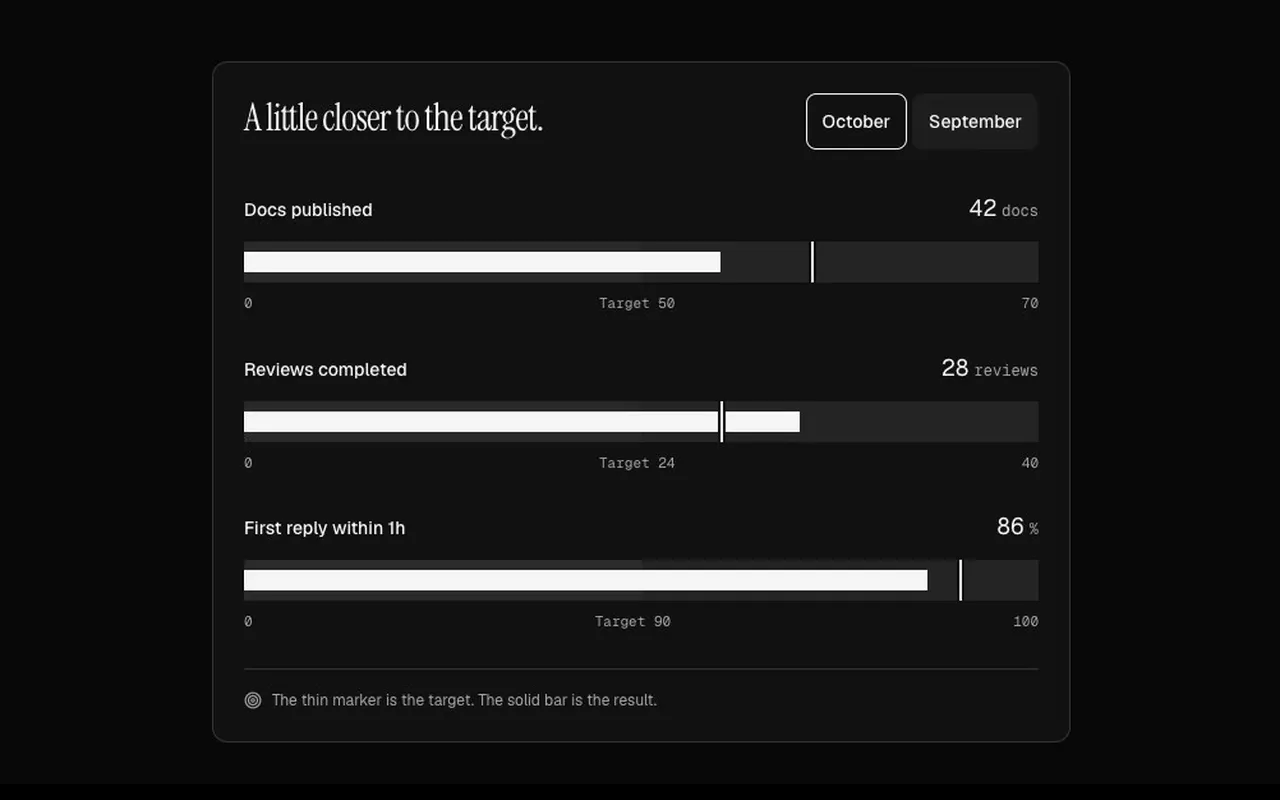
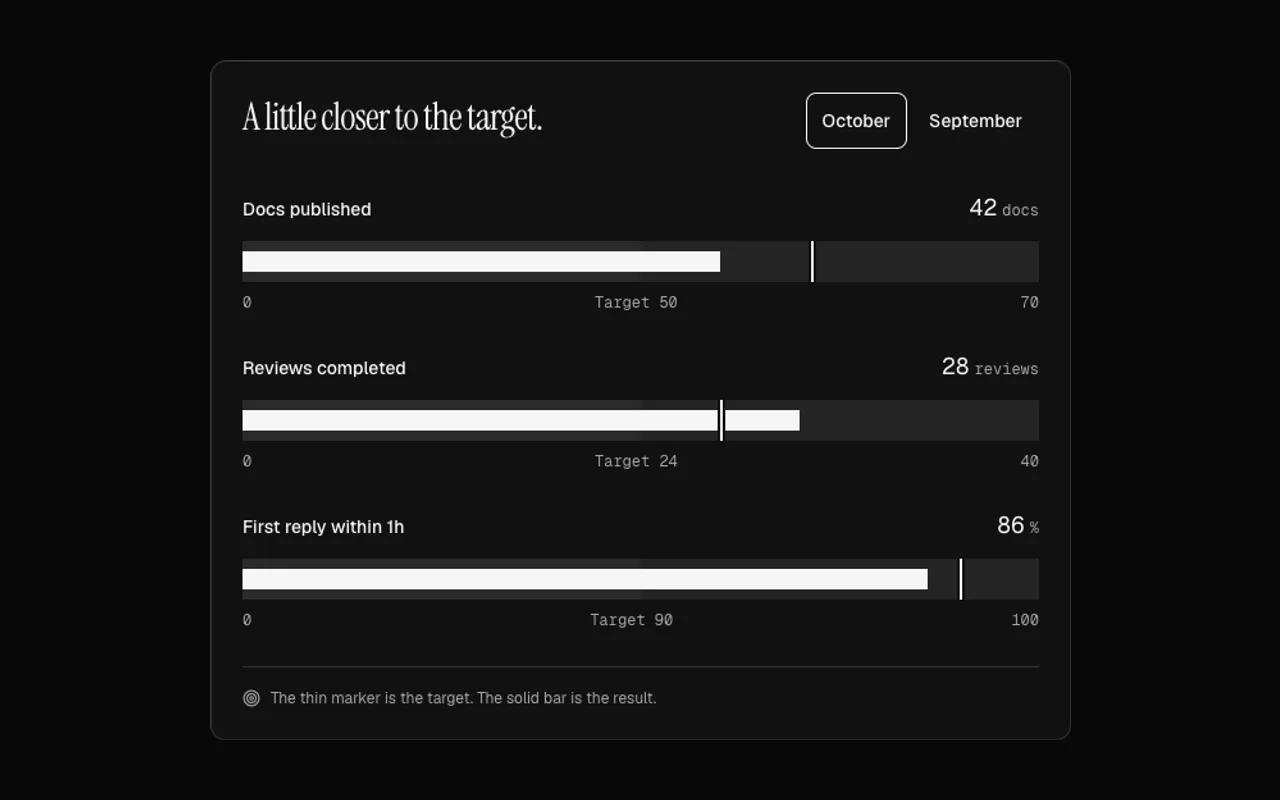
Polish Bullet Targets, preserve initial values and verify period changes

diff --git a/registry/free/chart-bullet-targets/chart-bullet-targets.tsx b/registry/free/chart-bullet-targets/chart-bullet-targets.tsx
@@ -1,10 +1,15 @@
 "use client";
-import { type CSSProperties, useId, useState } from "react";
+import { type CSSProperties, useLayoutEffect, useSyncExternalStore, useId, useState } from "react";
 import { Target } from "lucide-react";
-import { motion, useReducedMotion } from "motion/react";
+import { animate, motion, useAnimationControls, useMotionValue, useTransform } from "motion/react";
 
-const control =
-  "inline-flex min-h-11 min-w-11 items-center justify-center gap-2 rounded-lg px-3 text-sm font-medium transition-[background,transform] duration-150 hover:bg-[var(--wash)] disabled:hover:bg-transparent active:scale-[.97] focus-visible:outline-2 focus-visible:outline-offset-2 focus-visible:outline-[var(--ink)] disabled:cursor-not-allowed disabled:opacity-40 disabled:active:scale-100 motion-reduce:transform-none";
+const control = [
+  "inline-flex min-h-11 min-w-11 items-center justify-center gap-2 rounded-lg px-3 text-sm",
+  "font-medium transition-[background,transform] duration-150 hover:bg-[var(--wash)]",
+  "disabled:hover:bg-transparent active:scale-[.97] focus-visible:outline-2",
+  "focus-visible:outline-offset-2 focus-visible:outline-[var(--ink)] disabled:cursor-not-allowed",
+  "disabled:opacity-40 disabled:active:scale-100 motion-reduce:transform-none",
+].join(" ");
 const muted = "text-[var(--muted)]";
 function colors(theme: "dark" | "light"): CSSProperties {
   return {
@@ -104,6 +109,22 @@ const number = (n: number) =>
   n >= 1e6
     ? n.toExponential(1)
     : new Intl.NumberFormat("en", { maximumFractionDigits: 1 }).format(n);
+function AnimatedFigure({ value, reduced, demo }: { value: number; reduced: boolean; demo: string }) {
+  const current = useMotionValue(value);
+  const display = useTransform(current, number);
+  useLayoutEffect(() => {
+    current.stop();
+    // Very large observations stay exact and never overflow interpolation.
+    if (reduced || Math.abs(value - current.get()) > 1e12) {
+      current.set(value);
+      return;
+    }
+    const playback = animate(current, value, { duration: 0.28, ease: [0.22, 1, 0.36, 1] });
+    return () => playback.stop();
+  }, [current, value, reduced]);
+  return <motion.span data-demo={demo}>{display}</motion.span>;
+}
+
 export function BulletTargets({
   title = "A little closer to the target.",
   periods = defaults,
@@ -112,11 +133,13 @@ export function BulletTargets({
   theme = "dark",
 }: BulletTargetsProps) {
   const id = useId();
-  const reduced = useReducedMotion();
+  const { reduced, entrance } = useLiveEntrance();
   const [selected, setSelected] = useState(defaultPeriod);
   const period = periods.find((p) => p.id === selected) ?? periods[0];
   return (
-    <section
+    <motion.section
+      initial={{ opacity: 0, y: reduced ? 0 : 8 }}
+      animate={entrance}
       style={colors(theme)}
       aria-labelledby={id}
       className="@container w-full max-w-2xl rounded-xl border border-[var(--line)] bg-[var(--panel)] p-6 text-[var(--ink)]"
@@ -157,11 +180,11 @@ export function BulletTargets({
             max = Math.max(1, safe(metric.ceiling), actual, target);
           return (
             <div key={`${metric.id}-${i}`}>
-              <div className="mb-3 flex items-baseline justify-between gap-4">
+              <div className="mb-3 flex flex-wrap items-baseline justify-between gap-x-4 gap-y-1">
                 <h3 className="text-sm font-medium">{metric.label}</h3>
-                <span className="whitespace-nowrap font-mono text-lg tabular-nums">
-                  {number(actual)}
-                  <span className={`ml-1 text-xs ${muted}`}>{metric.unit}</span>
+                <span className="ml-auto min-w-0 text-right font-mono text-lg tabular-nums">
+                  <AnimatedFigure value={actual} reduced={reduced} demo={`bullet-value-${i}`} />
+                  <span className={`ml-1 inline-block max-w-full text-xs leading-relaxed ${muted}`}>{metric.unit}</span>
                 </span>
               </div>
               <div
@@ -174,6 +197,7 @@ export function BulletTargets({
                   className="absolute inset-y-0 left-0 w-1/2 border-r border-[var(--line)] bg-[var(--line)] opacity-40"
                 />
                 <motion.div
+                  key={String(reduced)}
                   aria-hidden="true"
                   initial={{ width: reduced ? `${(actual / max) * 100}%` : 0 }}
                   animate={{ width: `${(actual / max) * 100}%` }}
@@ -189,7 +213,7 @@ export function BulletTargets({
                 />
               </div>
               <div
-                className={`mt-2 flex justify-between gap-3 font-mono text-[11px] ${muted}`}
+                className={`mt-2 flex justify-between gap-3 font-mono text-xs ${muted}`}
               >
                 <span>0</span>
                 <span>Target {number(target)}</span>
@@ -205,11 +229,33 @@ export function BulletTargets({
       <p
         className={`mt-7 flex items-center gap-2 border-t border-[var(--line)] pt-4 text-xs ${muted}`}
       >
-        <Target size={14} aria-hidden="true" />
+        <Target size={14} className="shrink-0" aria-hidden="true" />
         The thin marker is the target. The solid bar is the result.
       </p>
-    </section>
+    </motion.section>
   );
+}
+
+const motionQuery = "(prefers-reduced-motion: reduce)";
+function subscribeToMotion(change: () => void) {
+  const query = window.matchMedia(motionQuery);
+  query.addEventListener("change", change);
+  return () => query.removeEventListener("change", change);
+}
+function useLiveEntrance() {
+  const reduced = useSyncExternalStore(
+    subscribeToMotion,
+    () => window.matchMedia(motionQuery).matches,
+    () => false,
+  );
+  const entrance = useAnimationControls();
+  useLayoutEffect(() => {
+    entrance.stop();
+    if (reduced) entrance.set({ opacity: 1, y: 0 });
+    else void entrance.start({ opacity: 1, y: 0, transition: { duration: 0.32 } });
+    return () => entrance.stop();
+  }, [entrance, reduced]);
+  return { reduced, entrance };
 }
 
 export default function BulletTargetsDemo(

diff --git a/tests/chart-initial-figures.test.ts b/tests/chart-initial-figures.test.ts
@@ -1,6 +1,7 @@
 import { describe, expect, it } from "vitest";
 import { renderToStaticMarkup } from "react-dom/server";
 import { createElement } from "react";
+import { BulletTargets } from "@/registry/free/chart-bullet-targets/chart-bullet-targets";
 import { SlopeComparison } from "@/registry/free/chart-slope-comparison/chart-slope-comparison";
 
 function figureValues(markup: string) {
@@ -9,6 +10,10 @@ function figureValues(markup: string) {
 }
 
 describe("first chart observations", () => {
+  it("renders actual bullet results before client effects run", () => {
+    expect(figureValues(renderToStaticMarkup(createElement(BulletTargets)))).toEqual(["42", "28", "86"]);
+  });
+
   it("renders actual slope observations before client effects run", () => {
     expect(figureValues(renderToStaticMarkup(createElement(SlopeComparison)))).toEqual(["46", "64"]);
   });

diff --git a/docs/review/HANDOFF_TASKS.md b/docs/review/HANDOFF_TASKS.md
@@ -348,7 +348,9 @@ and how to know it's done. Pick any of them up independently. Background, briefs
 
 - Task 4 tooling follow-up (19 October): replay failures retain their primary exception when navigation also destroys diagnostic context. A closed-page negative preserves the original goto error and reports unavailable state/screenshot evidence. The source-leak guard scans each file once for the same exported Pro names: all 306 tracked source files and 1,395 seeded cases match the former results. The measured scan improves from 3.97s to 33ms without raising its 5s deadline. Strict registry, TypeScript and all 1,064 unit tests pass at four workers. Both fixes are committed separately (`870ebd5`, `1d7aa75`); the original timeouts and masked failures remain archived.
 
-## 1. Re-record demo videos (113 components)
+- Task 7 (19 October): Bullet Targets retains its focused chart composition. Long units and large figures stay within 320px, correcting the preserved painted-text overflow. Initial result figures render correctly before client effects; later changes interpolate for 280ms; fills and numbers stop immediately when reduced motion changes, retaining period-button focus. Keyboard periods, exact callbacks/bar fractions, empty periods/metrics, normalized values and host replacement pass. The 29-mount source review, 14 state/default accessibility audits, six widths, reviewed entrance/state captures, Next regression, three controls, official audit and exact metadata replay pass. Strict registry, TypeScript and all 1,066 unit tests pass. Its current Next poster is refreshed and reviewed. The film refresh remains in task 1: recording under the current shared machine load was rejected without replacing the published movie. No capture guard is relaxed. The next full checkpoint has 61 suites and 74 metadata replays and remains pending. 20 components and 12 blocks remain in task 7; 114 films remain in task 1.
+
+## 1. Re-record demo videos (114 components)
 
 Every rebuilt component's poster is current but its catalogue film (`public/previews/<slug>.mp4`) still shows the old
 version. Record them one at a time on an otherwise idle machine; the recorder rejects frame stalls under load.
@@ -367,6 +369,7 @@ slug or per small group). Notes:
 
 Slugs:
 
+`chart-bullet-targets`
 `chart-slope-comparison`
 `agents-budget-guard`, `agents-dependency-board`
 `agents-run-replay`, `ai-answer-compare`, `ai-context-budget`, `ai-structured-output`, `auth-recovery-codes`
@@ -495,16 +498,16 @@ All nine parked rebuilds are shipped in both repos. Their original `_wip/<slug>`
 | finance-budget-variance | Completed 17 October: Next probe, dark/light accessibility, responsive and entrance/state captures, live demo and refreshed poster pass. |
 | finance-cashflow-dashboard | Completed 17 October: weekly balance and in/out bars, movable payments, independent pending saves, invalid-data guards, selected-week list geometry, Next probe/demo, both-theme accessibility, responsive/state/entrance captures and refreshed poster pass. |
 
-## 7. Continue the review (21 components, then 12 blocks)
+## 7. Continue the review (20 components, then 12 blocks)
 
-Same process as the 177 already done: hold each to the first ~100 components' standard. Briefs:
+Same process as the 178 already done: hold each to the first ~100 components' standard. Briefs:
 `docs/review/REVIEW_BRIEF.md`, `docs/review/SUITE_BRIEF.md` for industry components, suite languages in
 `docs/review/suites/`. Work newest first, about four components per batch, and verify each (build, tsc, tests,
 check-component, your own captures of states and mid-entrance frames, a refreshed poster, a rewritten pro-50 probe for
 industry components).
 
 - **Commerce** is reviewed. Keep `block-commerce-workspace` compatible with its rebuilt parts.
-- **Smaller components** (#151–179): chart-bullet-targets, media-story-deck, devtools-request-waterfall, devtools-json-inspector,
+- **Smaller components** (#151–179): media-story-deck, devtools-request-waterfall, devtools-json-inspector,
   media-before-after, data-kanban-compact, data-file-explorer, forms-preference-center, date-week-agenda,
   onboarding-setup-checklist, date-booking-slots, input-file-dropzone, input-shortcut-recorder,
   feedback-empty-search, navigation-pagination-window, primitives-shortcut-reference, selects-radio-cards,

diff --git a/docs/review/STATUS.md b/docs/review/STATUS.md
@@ -1,6 +1,6 @@
 # Review status
 
-177 components are rebuilt (or, for a few, polished), verified and committed. For each: whether its demo video
+178 components are rebuilt (or, for a few, polished), verified and committed. For each: whether its demo video
 needs re-recording, whether its poster is current, and the state of its browser regression probe.
 
 - **Video**: `new` means `public/previews/<slug>.mp4` still shows the old version. Re-record serially on a quiet machine:
@@ -9,7 +9,7 @@ needs re-recording, whether its poster is current, and the state of its browser 
 - **Probe**: the `tests/browser/pro-50/<slug>.mjs` state, or another probe that covers it. Blank means no browser test
   was written in this review; those are the ones for a separate pass.
 
-Release Notes also passes its focused review, three controls, official audit and exact Features replay, with a reviewed current film/poster. The editorial/chart reviews bring the next full checkpoint to 61 suites and 73 metadata replays. That next batch checkpoint is pending.
+Release Notes also passes its focused review, three controls, official audit and exact Features replay, with a reviewed current film/poster. The editorial/chart reviews bring the next full checkpoint to 61 suites and 74 metadata replays. That next batch checkpoint is pending.
 
 ## Batch verification (19 October 2026)
 
@@ -302,3 +302,4 @@ See [the handoff checkpoint](HANDOFF_TASKS.md#8-final-release-checks) for revisi
 | `content-release-notes` | current | current | Keyboard filters/disclosure, exact filtered lists, empty/arriving data, invalid limits, live reduced motion and selected-text contrast pass. The 29-mount source review, fourteen state/default accessibility audits, current fourteen-mount selection follow-up with twelve state audits, six widths, entrance/state captures, Next regression, three controls, official audit and exact Features replay pass. Strict registry, TypeScript and all 1,064 unit tests pass. Reviewed 3.5s film and paired poster are current, with all recording guards retained. |
 | `cards-event-ticket` | current | current | Native keyboard disclosure, empty/updated programmes, long guest/reference text, independent ticket IDs and live reduced motion pass. The 27-mount source review, fourteen state/default accessibility audits, six widths, entrance/state captures, Next regression, three controls, official audit and exact closed/open/closed replay pass. Strict registry, root/isolated Pro types and all 1,064 unit tests pass. Reviewed 3.32s film and paired poster are current, with every recording guard retained. |
 | `chart-slope-comparison` | new | current | Selection callbacks receive independent row copies. Contextual slope strokes improve from the preserved 2.13:1 failure to 4.98:1 dark and 3.41:1 light. Endpoint figures interpolate for 280ms; long units wrap as complete blocks. Keyboard selection, copied payloads, host replacement, negative/non-finite observations, unplottable ranges, empty collections and live reduced motion pass. The 31-mount source review, 16 state/default accessibility audits, six widths, entrance/state captures, Next regression, three controls, official audit and exact replay pass. Strict registry, TypeScript and all 1,064 unit tests pass. The refreshed Next poster is reviewed. Film refresh remains in task 1; rejected captures preserve the published movie and every timing guard. |
+| `chart-bullet-targets` | new | current | Long units and large figures stay within 320px, correcting the preserved painted-text overflow. Initial result figures render correctly before client effects; later changes interpolate for 280ms; fills and numbers stop immediately when reduced motion changes, retaining period-button focus. Keyboard periods, exact callbacks/bar fractions, empty periods/metrics, normalized values and host replacement pass. The 29-mount source review, 14 state/default accessibility audits, six widths, entrance/state captures, Next regression, three controls, official audit and exact replay pass. Strict registry, TypeScript and all 1,066 unit tests pass. The refreshed Next poster is reviewed. Film refresh remains in task 1; rejected captures preserve the published movie and every timing guard. |

diff --git a/registry/free/chart-bullet-targets/prompt.md b/registry/free/chart-bullet-targets/prompt.md
@@ -1,27 +1,14 @@
 # Bullet Target Comparison
 
-Build a standalone React 19 and Tailwind v4 component. A clear target-versus-actual chart with animated bars, explicit scale labels and period selection for team goals, service levels and operational metrics.
+Build a self-contained React 19, Tailwind CSS v4 and motion/react component. Lead with three clean actual bars and thin target markers. Align visible values and target/scale labels, with reporting-period controls beside the compact title.
 
-## Layout
+Use neutral graphite and white chrome, readable 14-16px body copy, 12px mono metadata and 44px native control targets. Keep the complete working object responsive at 320, 390, 768, 1024, 1440 and 1920px in both themes.
 
-Three horizontal bullet charts with a thick result bar and a thin target marker. A serif heading balances compact reporting-period controls. Size to the container. Use a 4/8px rhythm, 1px surface edges, 16px narrow padding and 24px desktop padding. Controls have 44px targets.
+- Pass reporting periods in display order with stable unique IDs and their metrics. defaultPeriod selects an initial ID, falling back to the first period.
+- Every metric has an actual, target, ceiling and unit. Negative or non-finite numbers display as zero; the scale expands to include the result and target.
+- onPeriodChange reports the chosen ID synchronously. The component keeps local selection, and the host owns persistence and any asynchronous work.
+- Empty periods and periods without metrics have written empty states. Accessible chart labels include the actual, target, unit and full scale.
 
-## Typography and colour
+Use a brief entrance and interruptible state motion. Respect reduced motion at first paint and when changed while mounted, retaining control focus and current data. Keep data-demo targets stable, the default demo complete and offline, and preview controls tied to visible props. Avoid remote assets, invented network actions, decorative status badges and repeated marketing headers.
 
-Use font-sans at 14-16px/1.5, font-mono metadata at 11-12px and a 24-36px heading with -0.035em tracking. Dark uses #111111, #f5f5f5, #a3a3a3 and #333333; light uses #ffffff, #171717, #525252 and #d4d4d4. Maintain AA contrast.
-
-## Motion
-
-Use a 320ms opacity/8px entrance, 150ms press response and 240ms state changes, easing cubic-bezier(0.22,1,0.36,1). No ambient loops. Reduced motion removes transforms and layout animation and limits fades to 120ms.
-
-## Behaviour and accessibility
-
-Use semantic elements, native keyboard behaviour, visible focus rings and instance-scoped IDs. Expose typed content and callbacks. Handle empty custom data and repeated instances. Announce important feedback politely. Match the source state ownership and callback contract.
-
-## Responsive
-
-Design for 320, 390, 768, 1024, 1440 and 1920px. Respond to the container with @container variants, wrap text and stack secondary details. Scroll only within explicitly labelled local regions.
-
-## Avoid
-
-No remote imagery, false success states, unlabelled controls, hover-only actions, low contrast or decorative status pills. The demo is an isolated component on a quiet stage.
+Show the actual figures on the first render, then animate later value changes over 280ms and stop them immediately when reduced motion changes. Very large differences settle directly so numeric animation cannot overflow. Wrap long unit labels and allow the value to take its own line at 320px.
